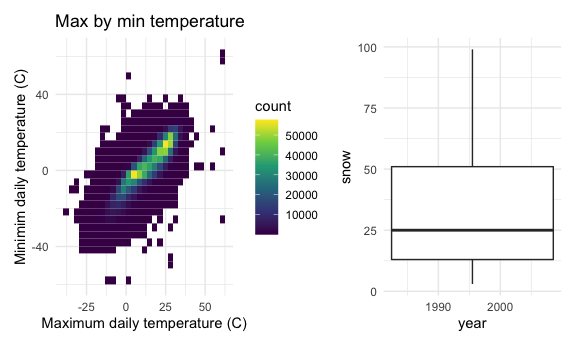
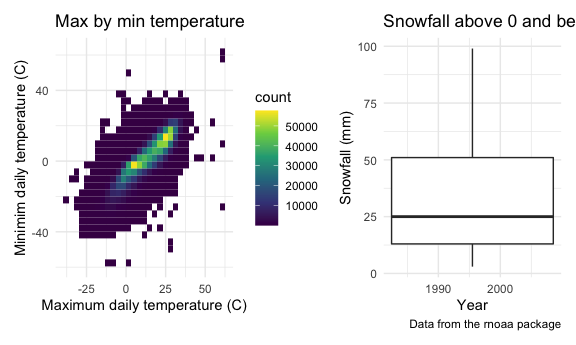
attempted fixes of snowfall plot

diff --git a/p8105_hw3_meb2308.md b/p8105_hw3_meb2308.md
@@ -1,7 +1,7 @@
 P8105 Homework 3 Solutions
 ================
 Meghan Bellerose
-October 1, 2020
+October 10, 2020
 
 ``` r
 library(tidyverse)
@@ -244,28 +244,28 @@ data("ny_noaa")
 This dataset comes from the National Oceanic and Atmospheric Association
 (NOAA) National Climatic Data Center. It includes information on all New
 York State weather stations from January 1, 1981 to December 21, 2010,
-including the weather station id (id), date of observation,
-precipitation in tenths of mm (prcp), snowfall in mm (snow), snow depth
-in mm (snwd), maximum and minimum temperature in degrees C (tmax)
-(tmin).
+including the weather station id, date of observation, precipitation in
+tenths of mm (prcp), snowfall in mm (snow), snow depth in mm (snwd),
+maximum and minimum temperature in degrees C (tmax) (tmin).
 
 Prior to cleaning, the dataset had 2595176 rows and 7 columns. Since
 each station collects only a subset of the variables described, the
 dataset has a lot of missing data.
 
 I will now clean and tidy the dataset. I converted tenths of degrees
-celcius to degrees celcius.
+celcius to degrees celcius and tenths of mm precipitation to mm.
 
 ``` r
 ny_noaa = ny_noaa %>% 
-  mutate(date = ymd(date)) %>% 
+  mutate(
+    date = ymd(date))%>% 
   mutate_at(vars(date), funs(year, month, day)) %>%
   mutate(
     tmax = as.numeric(tmax),
     tmin = as.numeric(tmin),
     prcp = (prcp / 10),
     tmax = (tmax / 10),
-    tmin = (tmin / 10)
+    tmin = (tmin / 10),
   )
 ```
 
@@ -351,9 +351,10 @@ snow_plot =
   ny_noaa %>% 
   filter(snow > 0 & snow < 100) %>%
   select(year, snow) %>% 
+  group_by (year) %>% 
   drop_na() %>% 
   ggplot(aes(x = year, y = snow)) +
-  geom_boxplot()
+  geom_boxplot() +
   labs(
     title = "Snowfall above 0 and below 100mm by year",
     x = "Year",
@@ -361,11 +362,7 @@ snow_plot =
     caption = "Data from the rnoaa package"
   ) +
   theme(legend.position = "right")
-```
 
-    ## NULL
-
-``` r
 (temp_plot + snow_plot)
 ```
 
